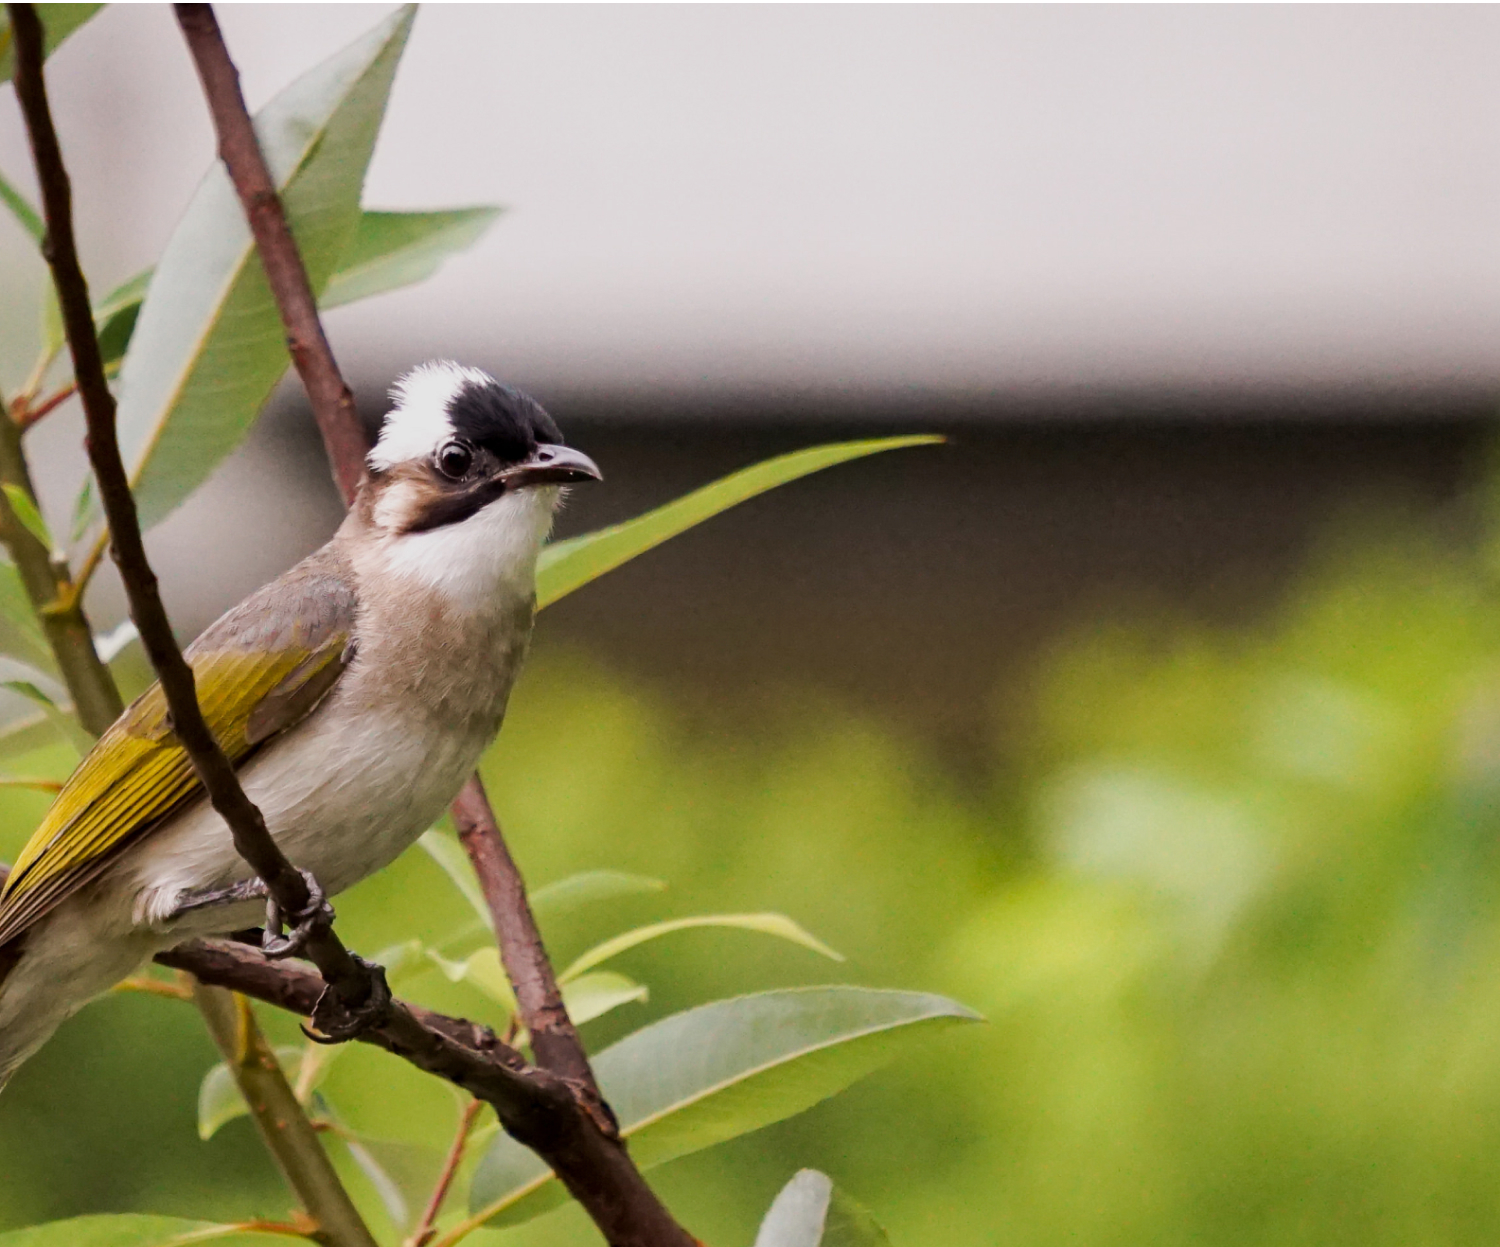
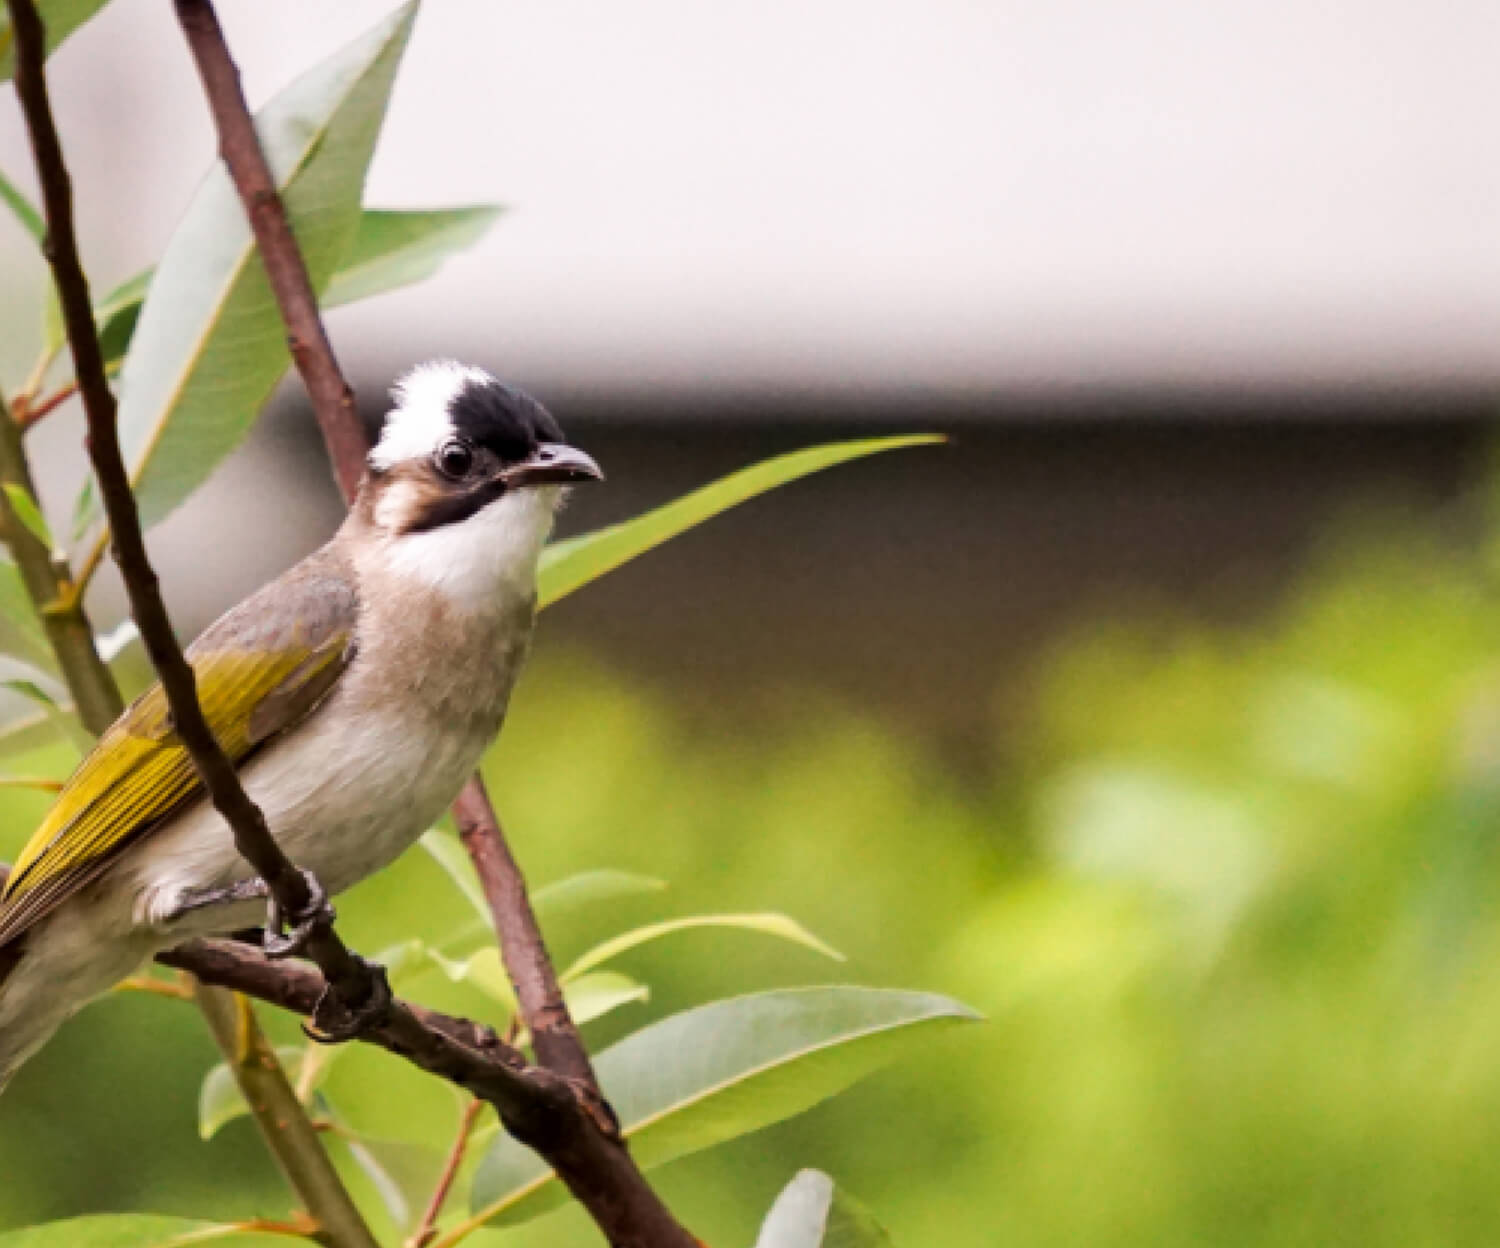
Fix: 載入部份elementui

diff --git a/src/main.js b/src/main.js
@@ -2,11 +2,11 @@ import { createApp } from 'vue'
 import App from './App.vue'
 import router from './router'
 import './style.sass'
-import ElementPlus from 'element-plus'
+// import ElementPlus from 'element-plus'
 import 'element-plus/dist/index.css'
 
 const app = createApp(App)
-app.use(ElementPlus)
+// app.use(ElementPlus)
 app.use(router)
 
 app.mount('#app')

diff --git a/src/components/Pictures.vue b/src/components/Pictures.vue
@@ -5,7 +5,7 @@
       :key="n.srcset"
       :srcset="n.srcset"
       :media="n.media">
-    <img :src="props.minImgUrl" class="w-full">
+    <img :src="props.minImgUrl" class="w-full brightness-90">
   </picture>
 </template>
 

diff --git a/src/components/skeleton/SkeletonNav.vue b/src/components/skeleton/SkeletonNav.vue
@@ -22,6 +22,11 @@
     </div>
   </nav>
 </template>
+
+<script setup>
+  import { ElSkeleton, ElSkeletonItem } from 'element-plus'
+</script>
+
 <style lang="sass" scoped>
 .nav-shadow
   box-shadow: 0 4px 4px rgba(0,0,0,0.25)

diff --git a/src/components/skeleton/SkeletonHome.vue b/src/components/skeleton/SkeletonHome.vue
@@ -22,6 +22,10 @@
   </div>
 </template>
 
+<script setup>
+  import { ElSkeleton, ElSkeletonItem } from 'element-plus'
+</script>
+
 <style lang="sass" scoped>
 .picture
   max-height: 70%

diff --git a/src/components/skeleton/SkeletonSidebar.vue b/src/components/skeleton/SkeletonSidebar.vue
@@ -29,6 +29,9 @@
   </aside>
 </template>
 
+<script setup>
+  import { ElSkeleton, ElSkeletonItem } from 'element-plus'
+</script>
 
 <style lang="sass" scoped>
   .shadow
